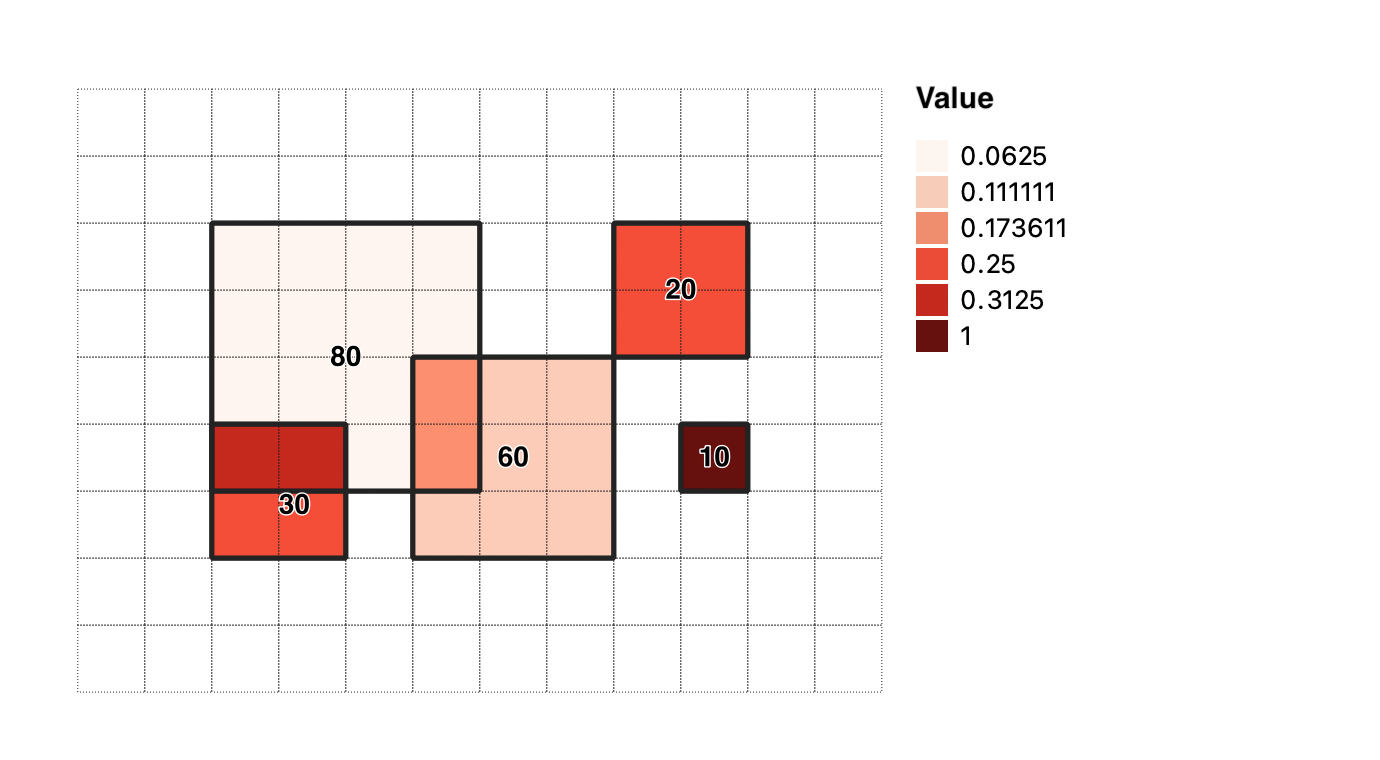
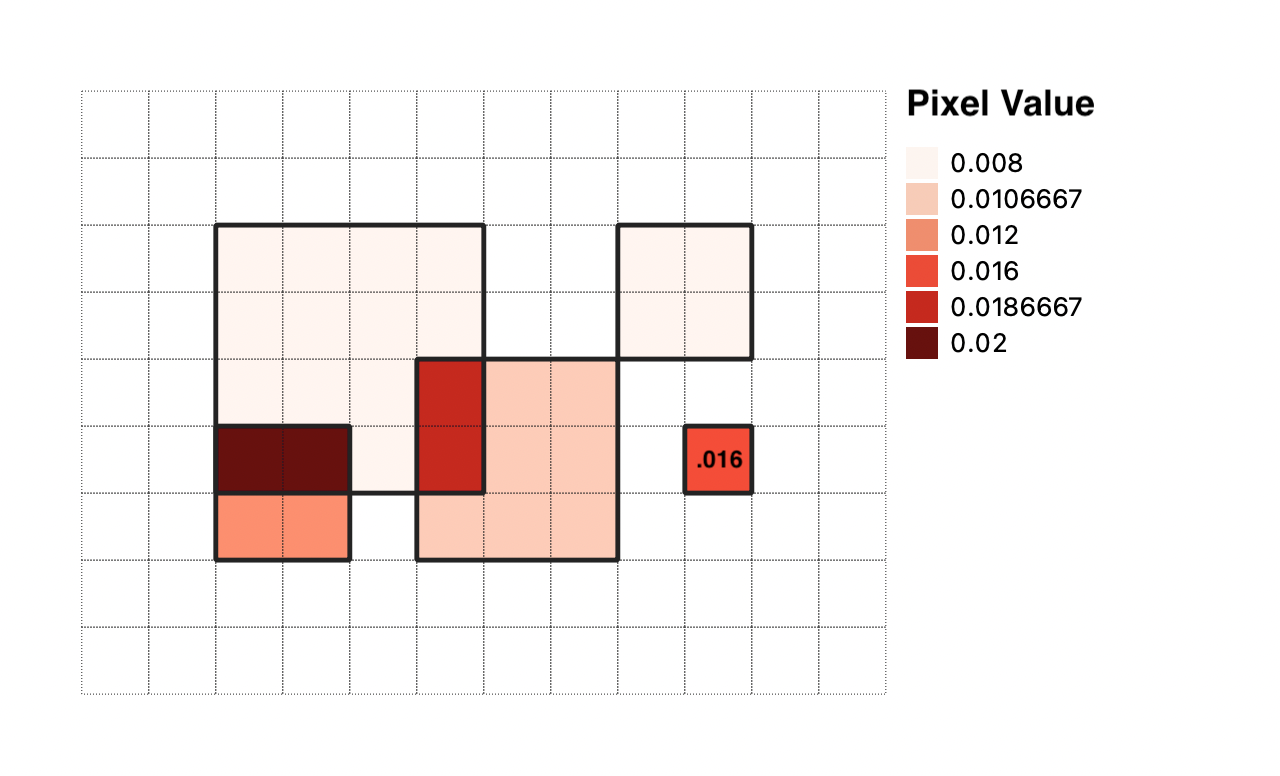
fix example calcs (were wrong!), update debug cmd

diff --git a/docs/algorithm.md b/docs/algorithm.md
@@ -15,21 +15,25 @@ SAP value = importance / area
 
 In this example, the polygon with an importance of 10 is 25 square meters per side or 625 square meters in area.  It's SAP value is calculated as:
 ```
-10 / 625 = .016
+10 / 625 square meters = .016 / square meters
 ```
+
+This can be read as `.016 per square meter`
 
 ![survey sap map](img/survey-polygon-sap.png)
 
-The polygons are then `rasterized` by overlaying with a grid.  Each cell in the grid represents a geographic area.  In this example, the cells are 25 meters per side.
+The polygons are then `rasterized` by overlaying them with a rectangular grid of pixels.  In this example, each grid pixel represents a distinct 25 meter x 25 meter geographic area.
 
 ![survey sap map](img/survey-burn-in.png)
 
-One at a time, each rasterized polygon is 'burned in' to the grid, accumulating its SAP value as an aggregate sum.  In other words if a polygon overlaps with a cell, then the SAP value of that polygon is added to value already in that cell.
-
-The resulting grid is finally output as a geospatial raster image (GeoTIFF), which now represents each grid cell as an image pixel.
+One-by-one, each rasterized polygon is `burned-in` to the grid, producing a `heatmap` or aggregate sum of SAP value.  
 
 ![survey sap map](img/survey-sap-heatmap.png)
 
-The magnitude of the SAP value for each pixel is not important, only its value in relation to other pixels, and the portion of the total SAP value it represents.
+More specifically, for each pixel that a polygon overlaps with, the SAP value of the polygon is assigned to that pixel.  The accumulated SAP values for each pixel are summed to produce a final grid, which is output as a geospatial raster image file (GeoTIFF).
 
-Notice that the polygon that had an importance of 10 yields a pixel with a SAP value of 1.  This is due to it having a relatively large importance for its small area.  The sum of all pixel values is 5, so this one pixel represents 20% of the overall value or importance.
+Notice that the polygon that had an importance of 10 and a SAP value of .016, results in a pixel SAP value of .016.  This is because the polygon was exactly the size of a pixel (25 square meters).  The sum of all pixel values is 0.32, so this one pixel represents `(.016 / .32) = 5%` of the overall value or importance.
+
+The magnitude of a pixels value by itself is not important.  The real value is in comparing a pixels value to another.  The pixel or group of pixels with greater SAP value has more importance to the surveyed group.  Likewise, the loss of access to the area with the most value would have the greatest `cost` to the group.
+
+For this reason, Spatial Access Priority maps are frequently lused as a `cost` layer in prioritization software such as Marxan or PrioritizR, to find planning solutions that ecosystem benefits, while minimizing the cost to groups of people that use the area.

diff --git a/docs/contributing.md b/docs/contributing.md
@@ -7,7 +7,8 @@ Start debupy in container listening on port, waits for vscode before executing t
 
 Running an example:
 ```
-    cd examples/simple
+    cd examples/survey
+    python -m debugpy --listen 0.0.0.0:5678 --wait-for-client ../../scripts/gen_sap_map config.json
     python -m debugpy --listen 0.0.0.0:5678 --wait-for-client simple_sap_map.py
 ```
 
